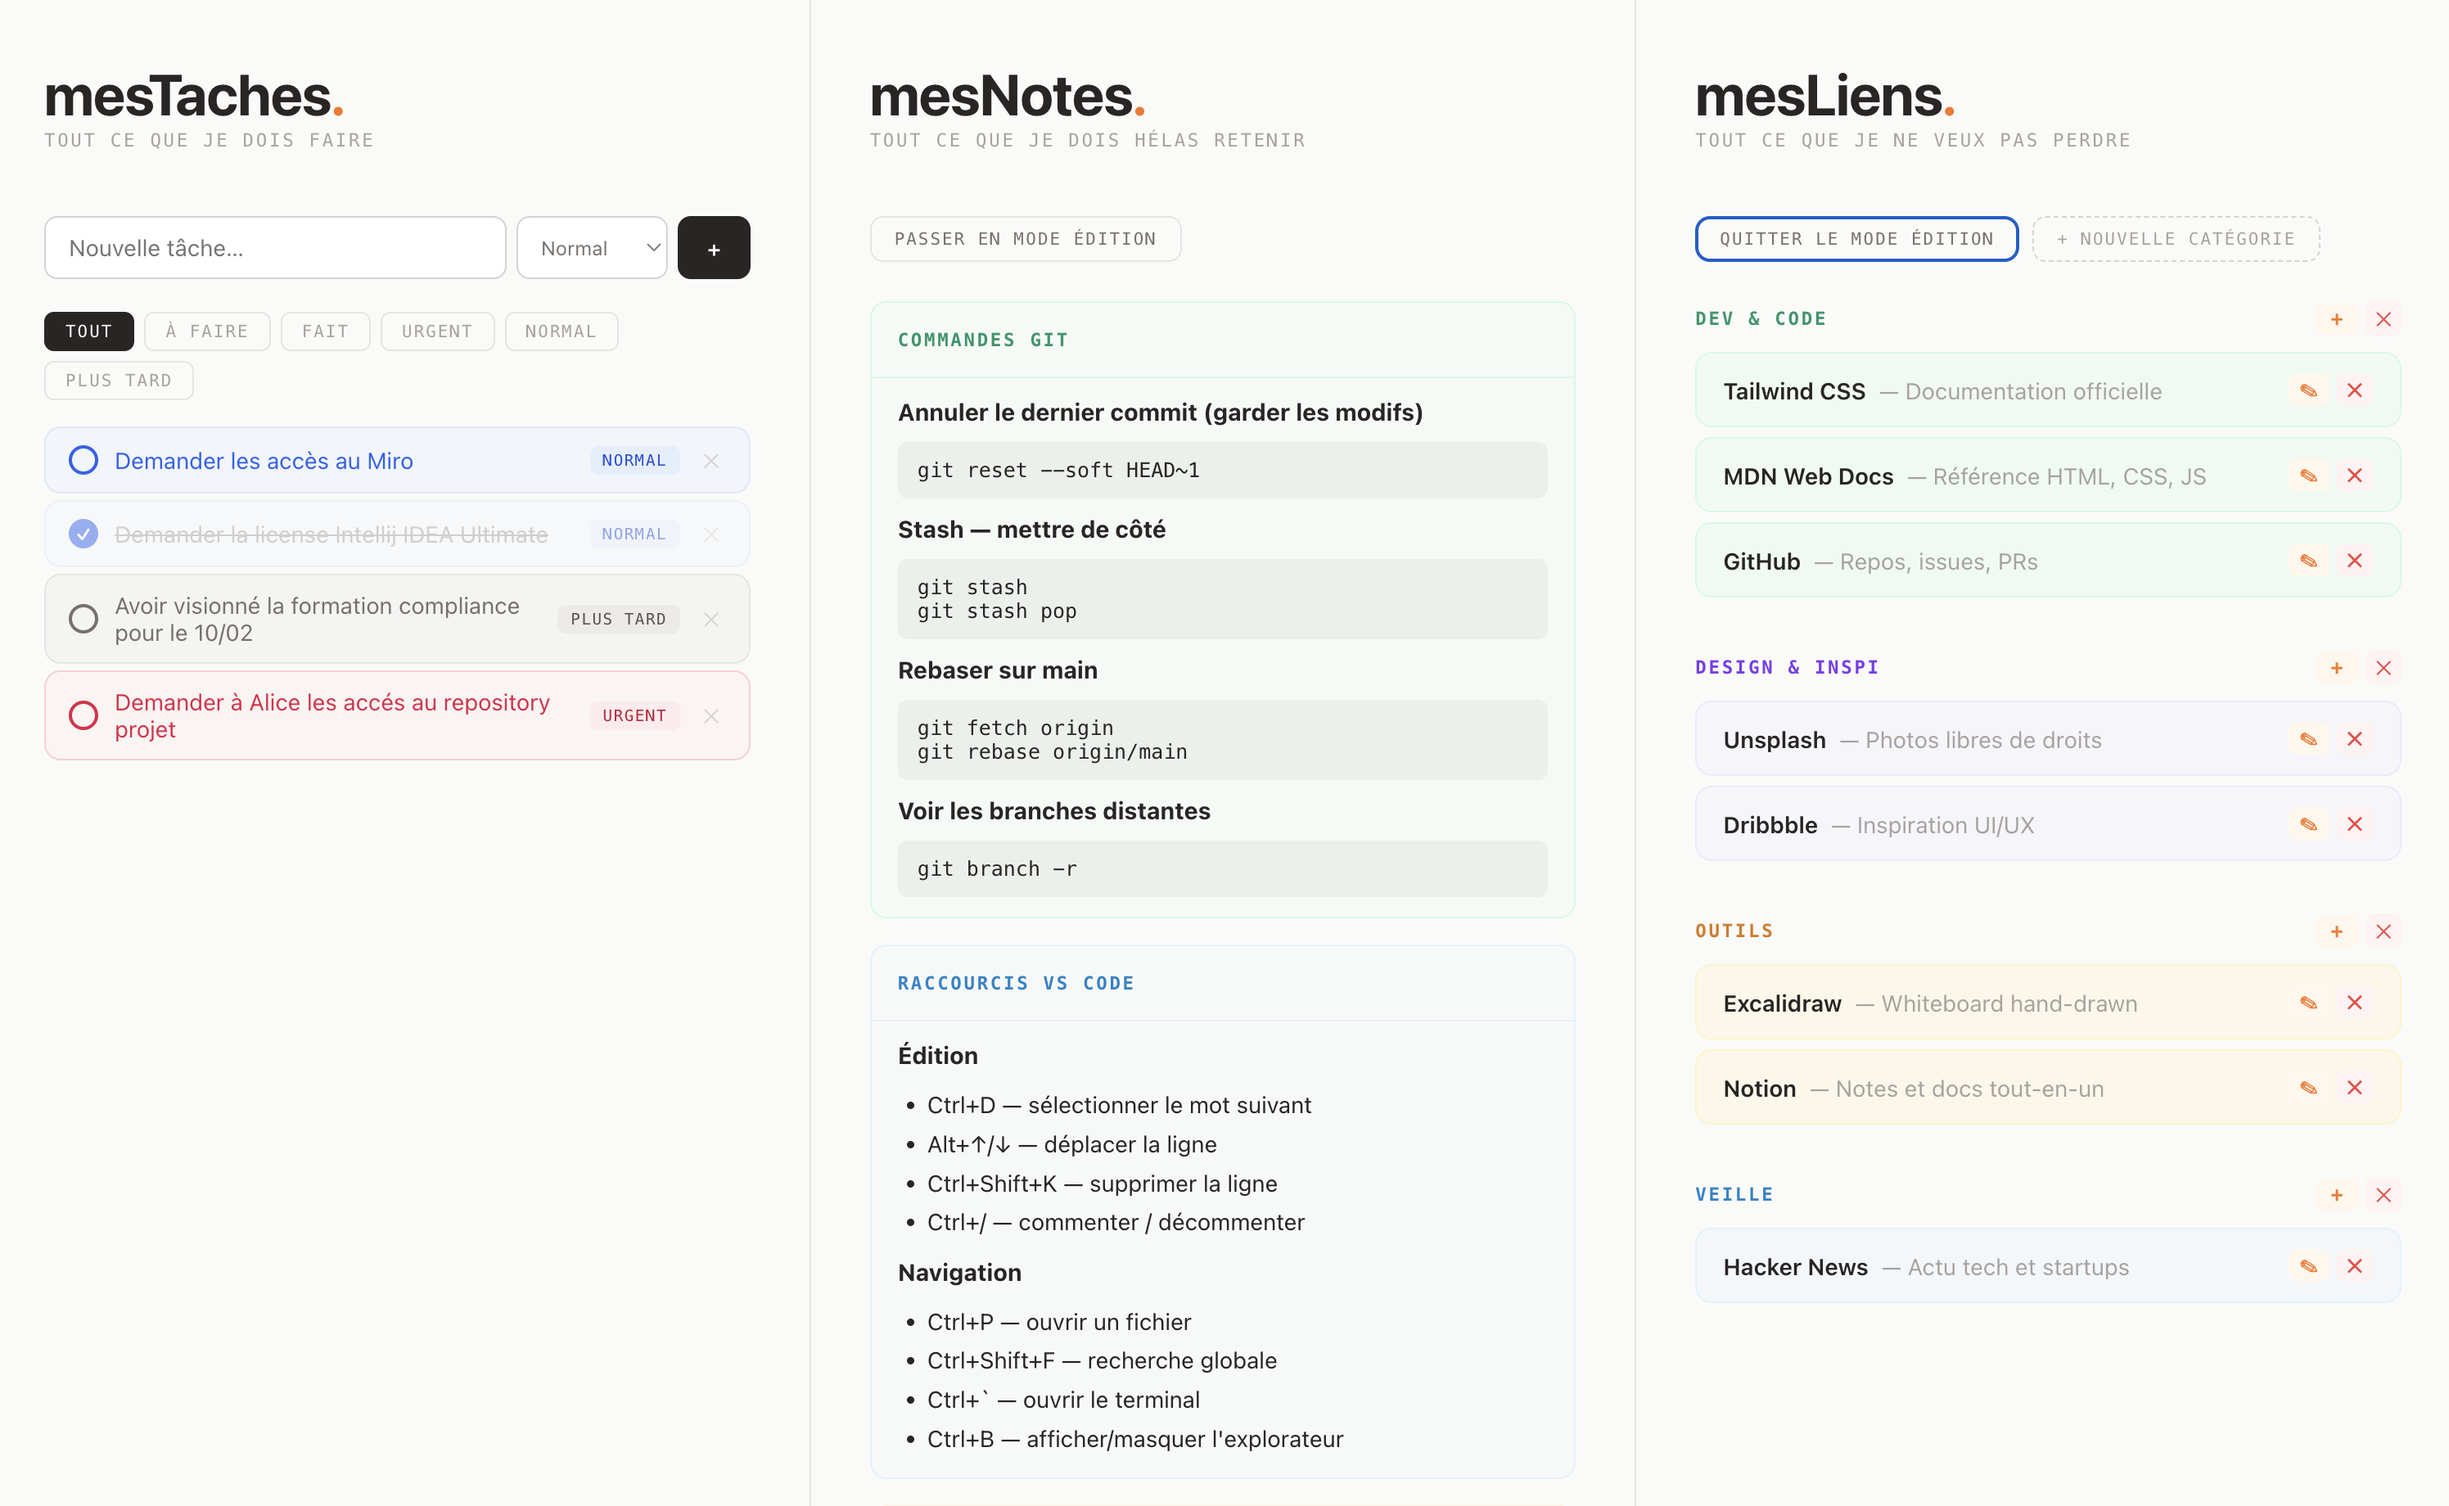
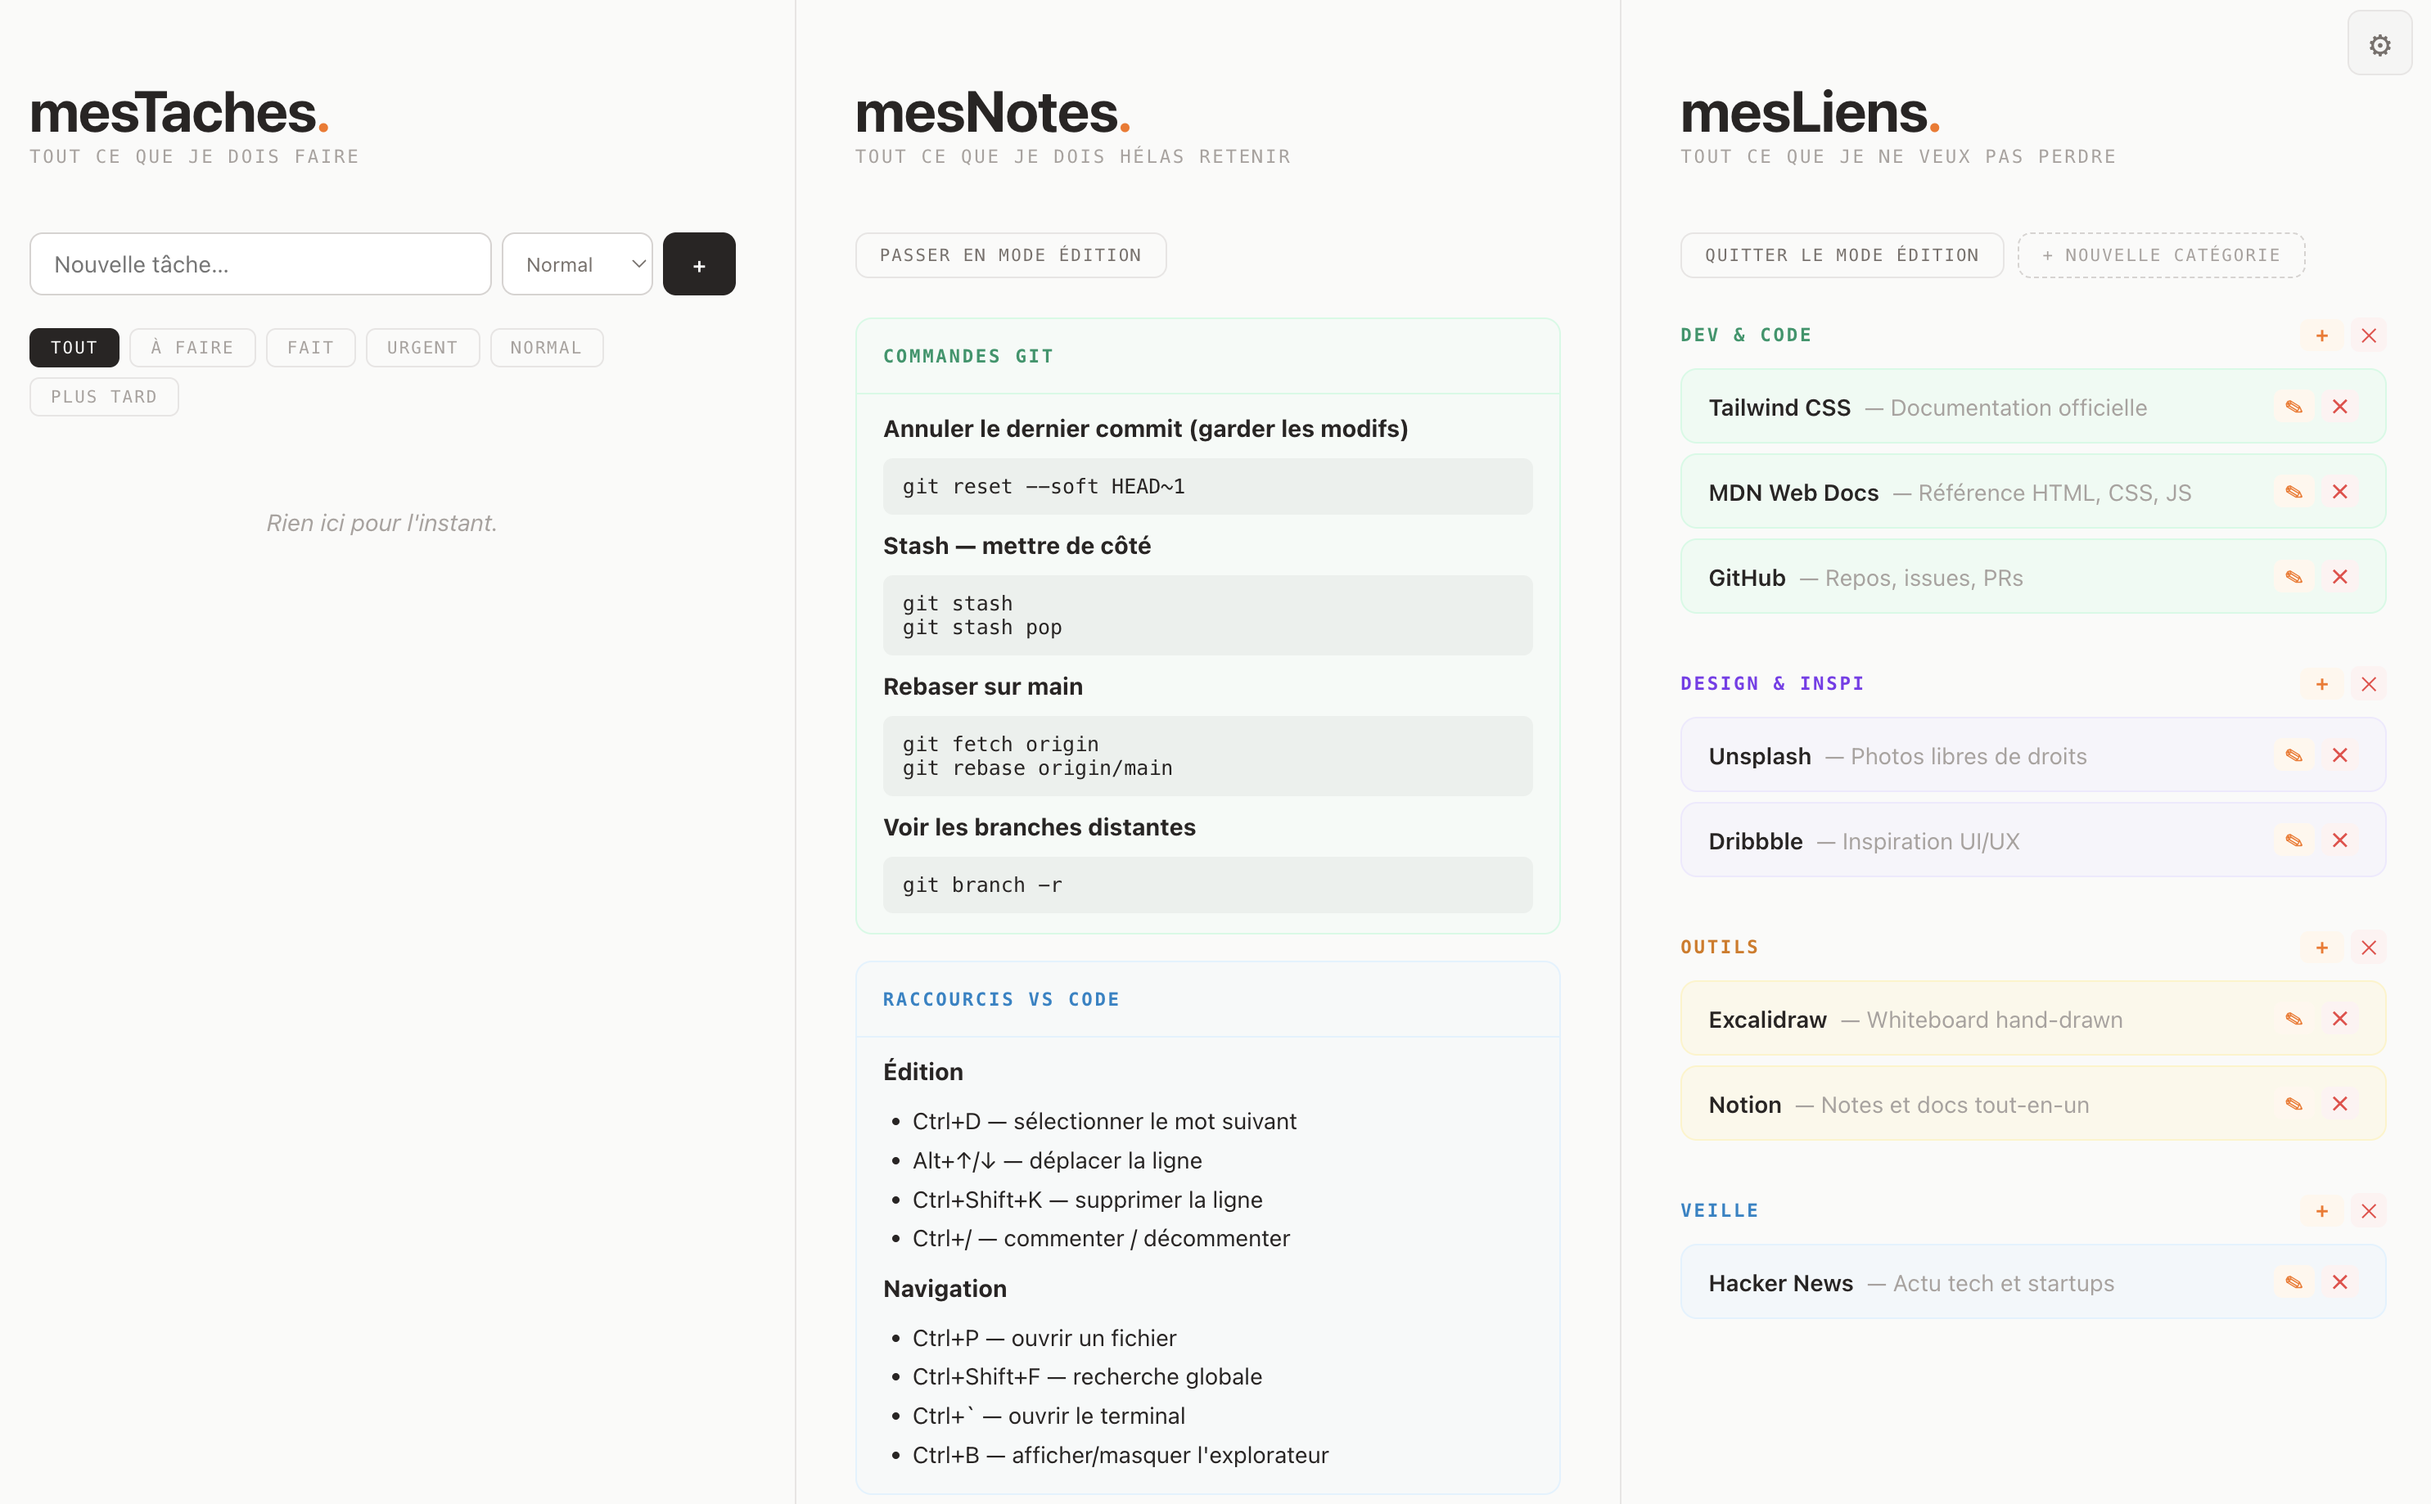
docs(Documentation): updating Documentation

diff --git a/mesLiens.js b/mesLiens.js
@@ -1,77 +1,66 @@
 var mesLiensDefaut = [
   {
-    "theme": "t-green",
-    "titre": "Dev & Code",
-    "liens": [
+    theme: "t-green",
+    titre: "Dev & Code",
+    liens: [
       {
-        "nom": "Tailwind CSS",
-        "desc": "Documentation officielle",
-        "url": "https://tailwindcss.com/docs"
+        nom: "Tailwind CSS",
+        desc: "Documentation officielle",
+        url: "https://tailwindcss.com/docs",
       },
       {
-        "nom": "MDN Web Docs",
-        "desc": "Référence HTML, CSS, JS",
-        "url": "https://developer.mozilla.org/fr/"
+        nom: "MDN Web Docs",
+        desc: "Référence HTML, CSS, JS",
+        url: "https://developer.mozilla.org/fr/",
       },
       {
-        "nom": "GitHub",
-        "desc": "Repos, issues, PRs",
-        "url": "https://github.com"
-      }
-    ]
+        nom: "GitHub",
+        desc: "Repos, issues, PRs",
+        url: "https://github.com",
+      },
+    ],
   },
   {
-    "theme": "t-violet",
-    "titre": "Design & Inspi",
-    "liens": [
+    theme: "t-violet",
+    titre: "Design & Inspi",
+    liens: [
       {
-        "nom": "Unsplash",
-        "desc": "Photos libres de droits",
-        "url": "https://unsplash.com"
+        nom: "Unsplash",
+        desc: "Photos libres de droits",
+        url: "https://unsplash.com",
       },
       {
-        "nom": "Dribbble",
-        "desc": "Inspiration UI/UX",
-        "url": "https://dribbble.com"
-      }
-    ]
+        nom: "Dribbble",
+        desc: "Inspiration UI/UX",
+        url: "https://dribbble.com",
+      },
+    ],
   },
   {
-    "theme": "t-amber",
-    "titre": "Outils",
-    "liens": [
+    theme: "t-amber",
+    titre: "Outils",
+    liens: [
       {
-        "nom": "Excalidraw",
-        "desc": "Whiteboard hand-drawn",
-        "url": "https://excalidraw.com"
+        nom: "Excalidraw",
+        desc: "Whiteboard hand-drawn",
+        url: "https://excalidraw.com",
       },
       {
-        "nom": "Notion",
-        "desc": "Notes et docs tout-en-un",
-        "url": "https://notion.so"
-      }
-    ]
+        nom: "Notion",
+        desc: "Notes et docs tout-en-un",
+        url: "https://notion.so",
+      },
+    ],
   },
   {
-    "theme": "t-sky",
-    "titre": "Veille",
-    "liens": [
+    theme: "t-sky",
+    titre: "Veille",
+    liens: [
       {
-        "nom": "Hacker News",
-        "desc": "Actu tech et startups",
-        "url": "https://news.ycombinator.com"
-      }
-    ]
+        nom: "Hacker News",
+        desc: "Actu tech et startups",
+        url: "https://news.ycombinator.com",
+      },
+    ],
   },
-  {
-    "theme": "t-green",
-    "titre": "ABC",
-    "liens": [
-      {
-        "nom": "def",
-        "desc": "",
-        "url": "#"
-      }
-    ]
-  }
 ];
